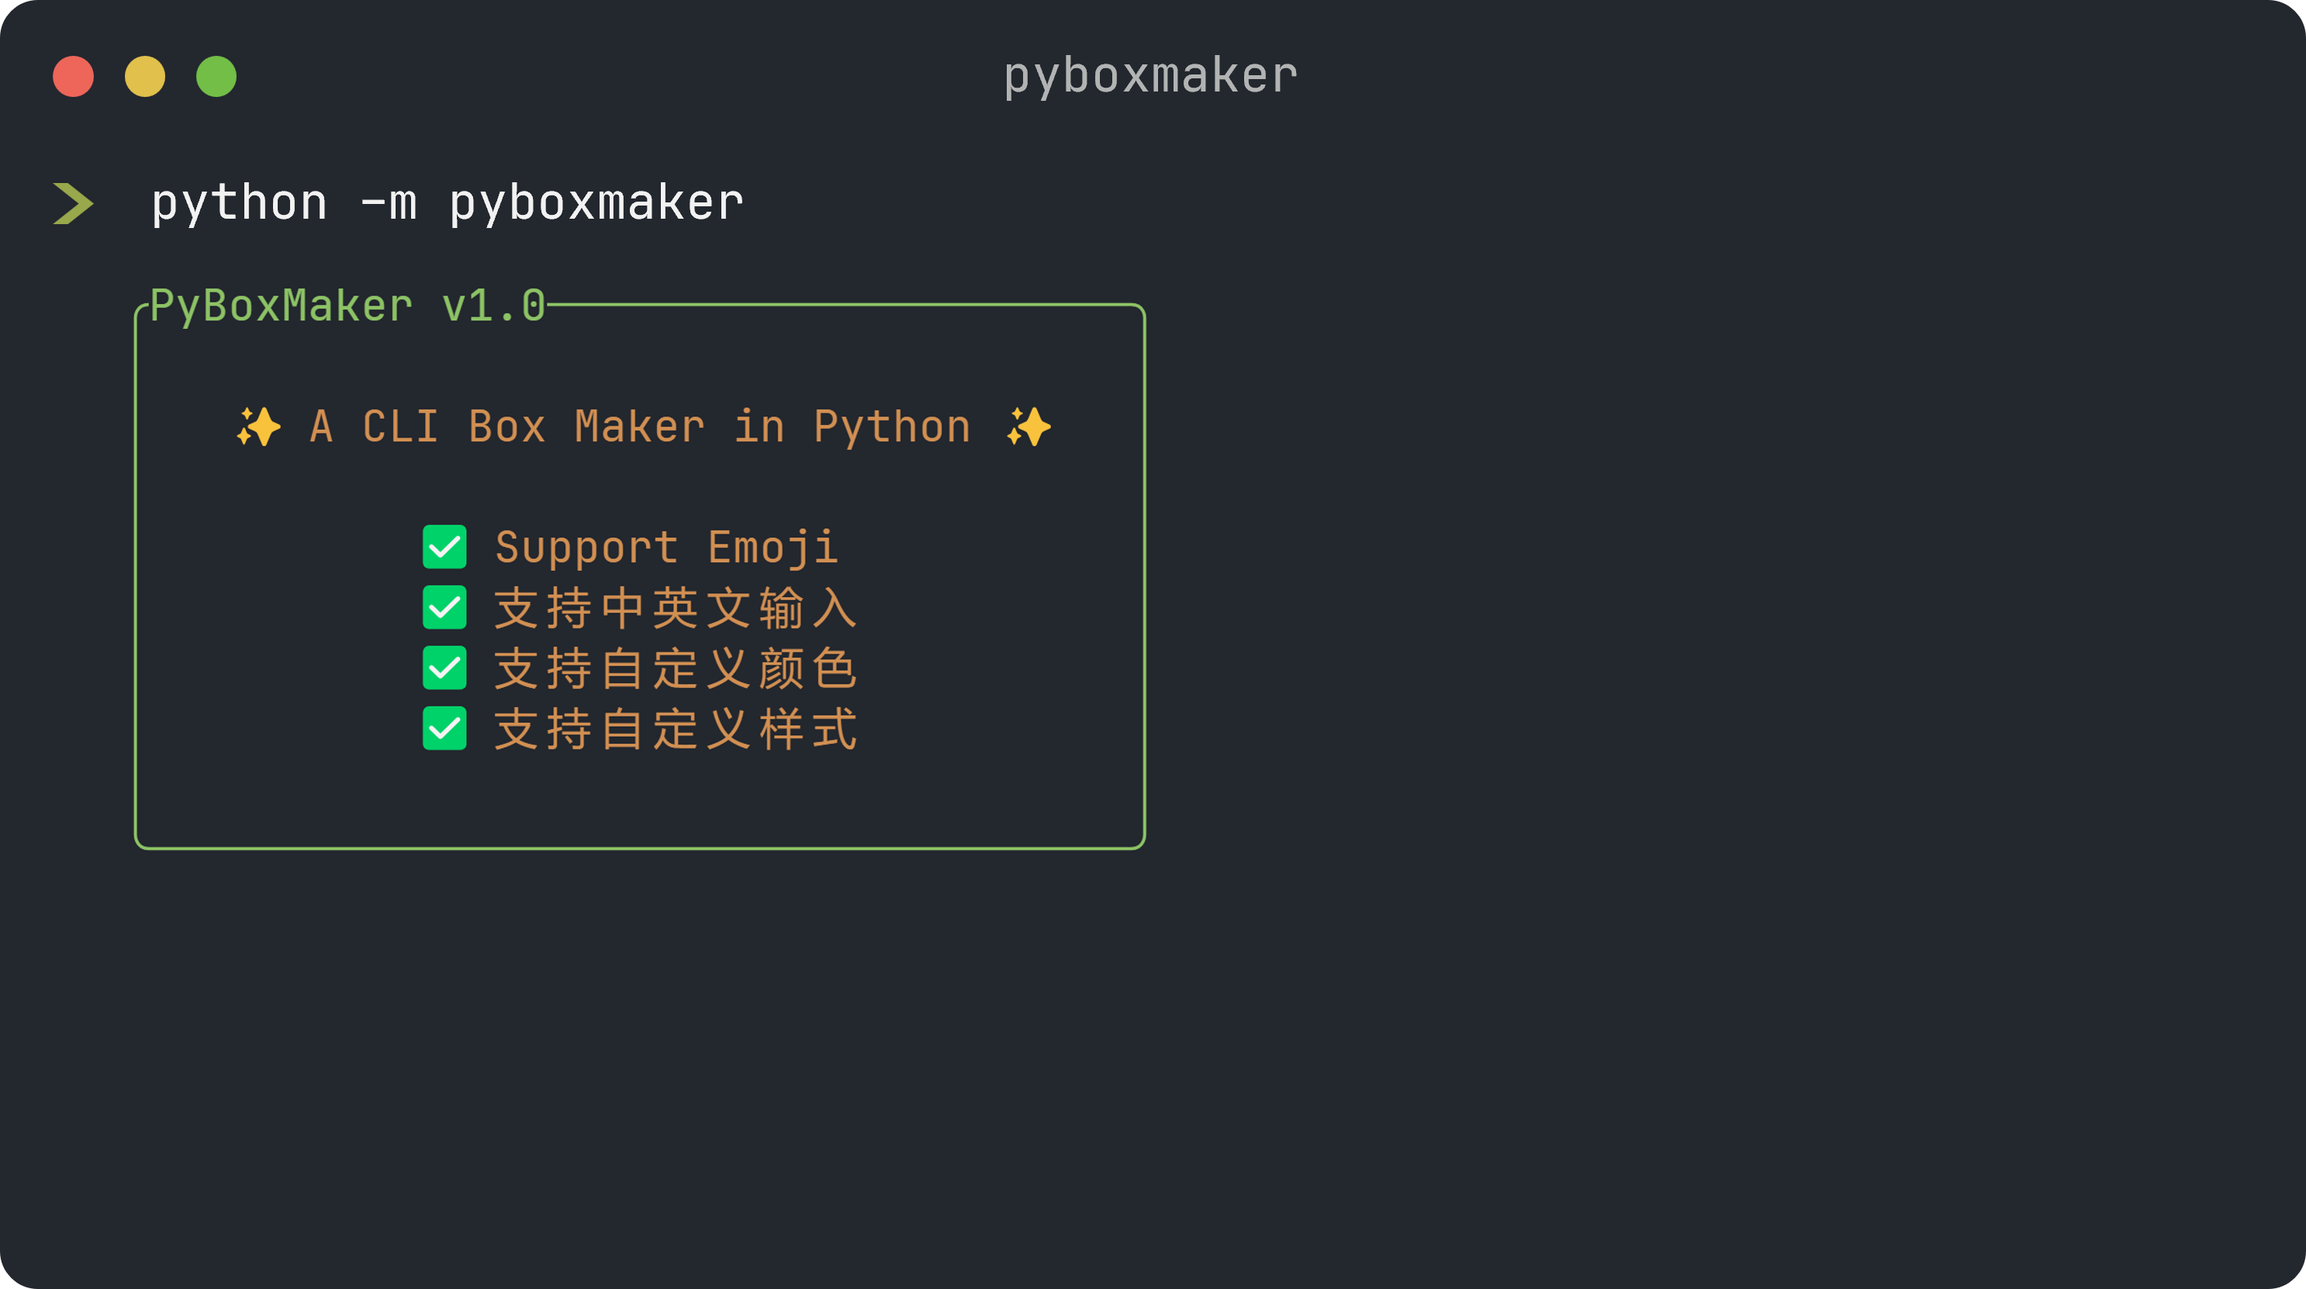
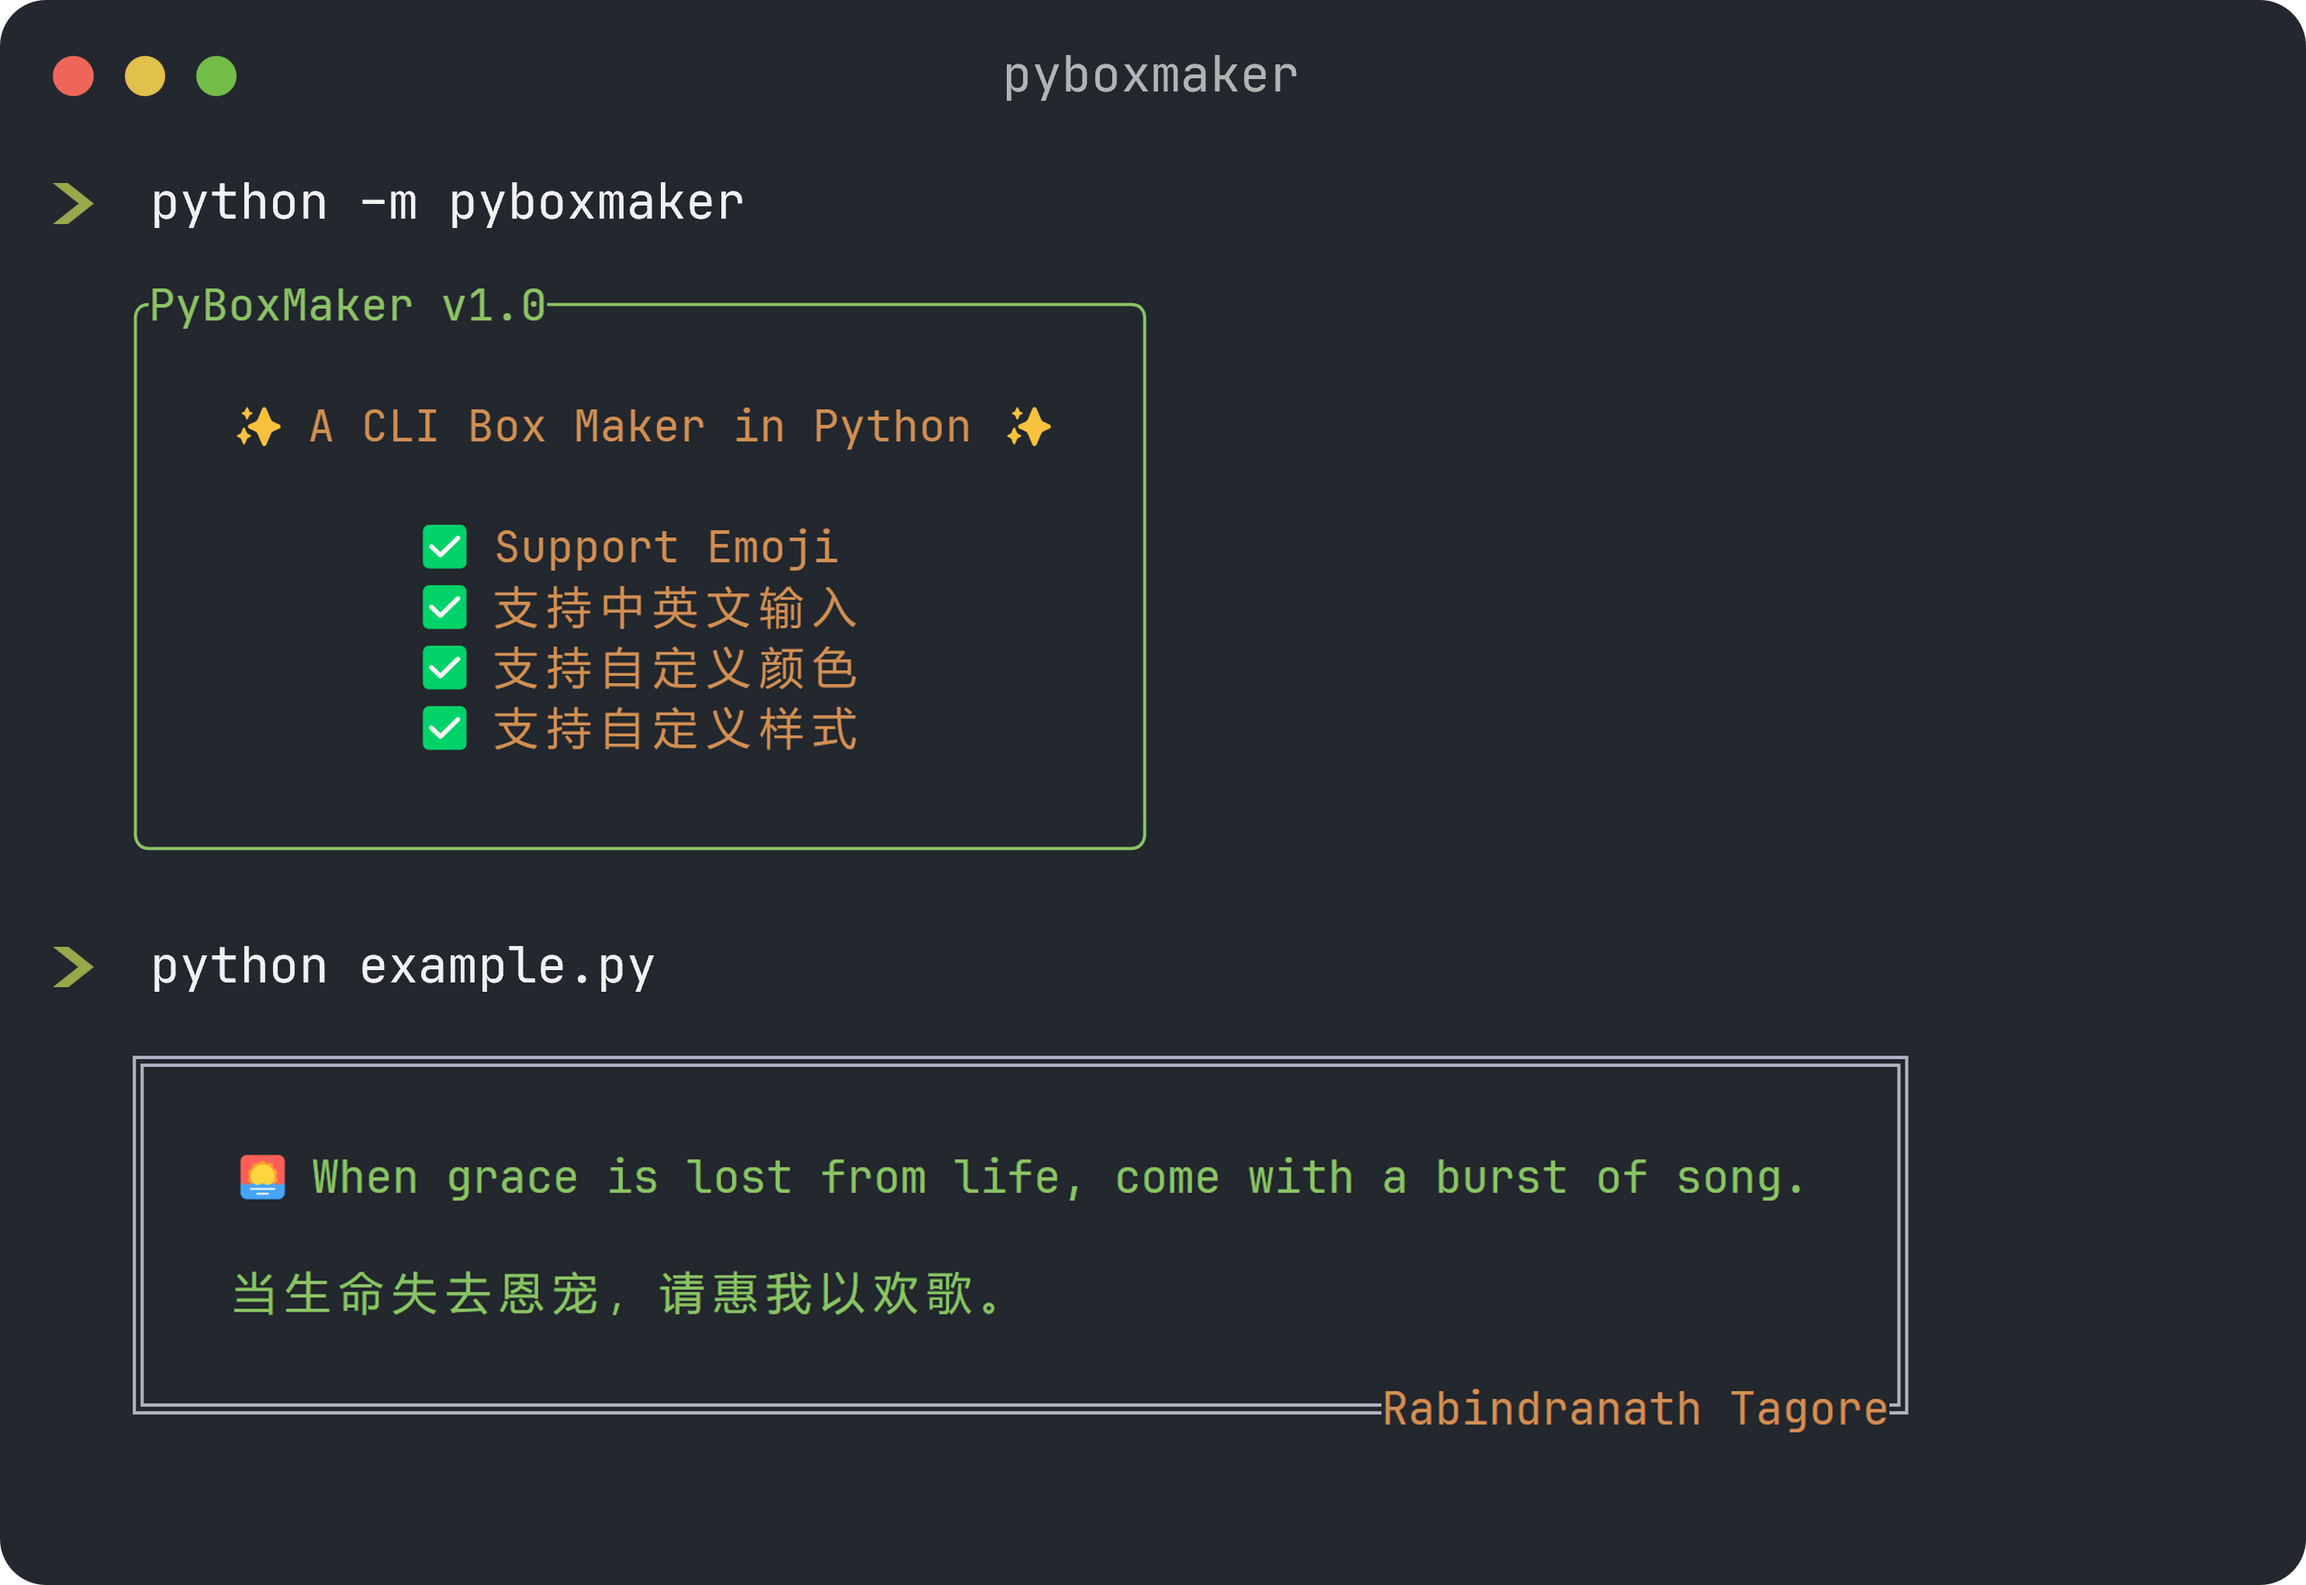
docs: update sample img

diff --git a/example.py b/example.py
@@ -36,7 +36,7 @@ if __name__ == '__main__':
         style='italic', margin=3, align='left', box_width=16)
 
     # Give it a try!
-    box(['When grace is lost from life, come with a burst of song.', '',
+    box(['🌅 When grace is lost from life, come with a burst of song.', '',
          '当生命失去恩宠，请惠我以欢歌。'], title='Rabindranath Tagore',
-         title_align='downright', margin=3, align='left',
+         title_align='downright', margin=3, align='left', title_color='yellow',
          box_style='double', color='green')
